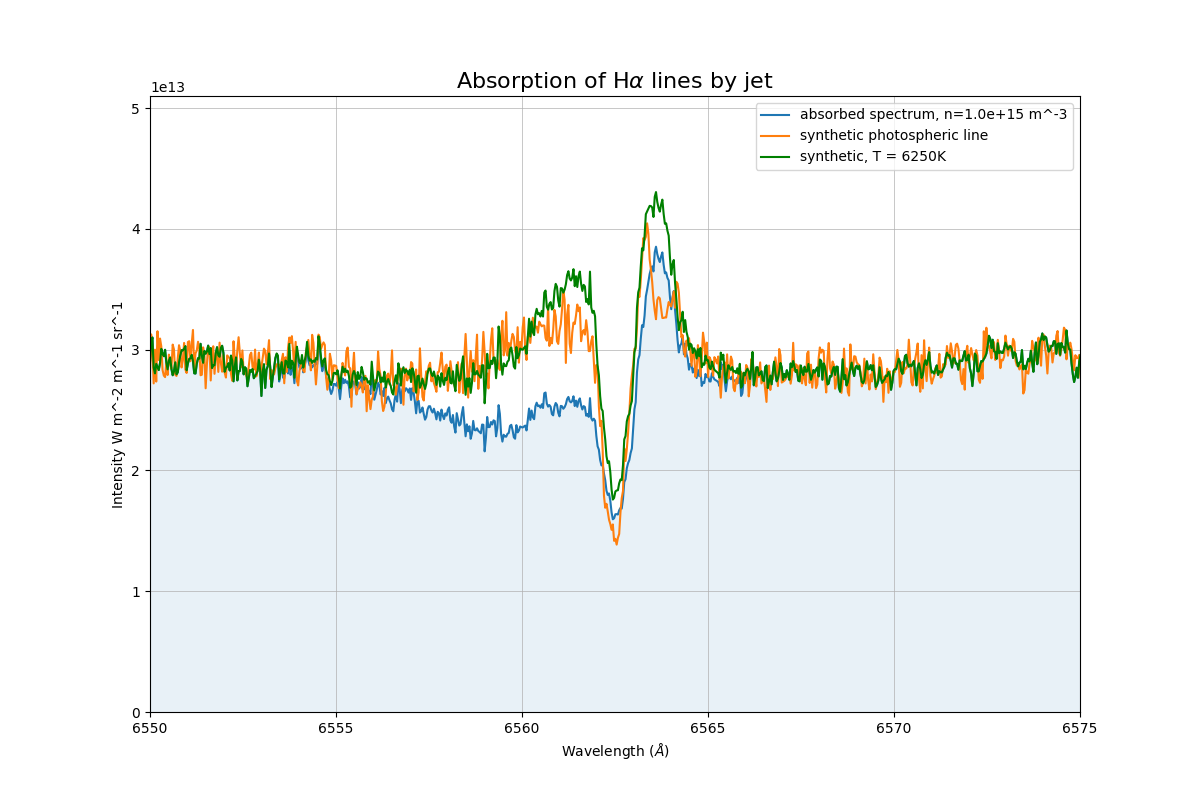
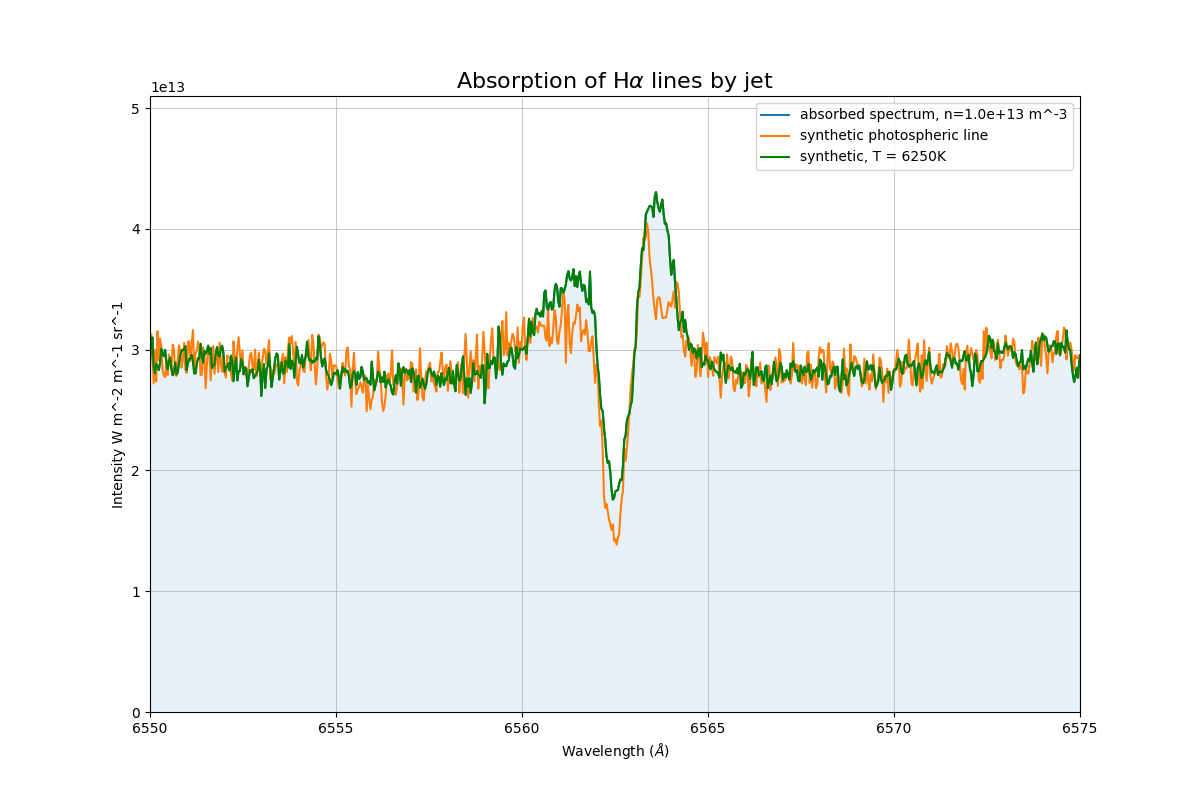
bug in linewidth found

diff --git a/tests/main.py b/tests/main.py
@@ -243,7 +243,7 @@ jet = Cone.Stellar_jet_simple(inclination, jet_angle,
                               jet_type,
                               jet_centre=secondary_orbit[phase_test]['position'])
 jet_temperature         = 5000      # The jet temperature (K)
-jet_density_max         = 1e15      # The jet number density at its outer edge (m^-3)
+jet_density_max         = 1e13      # The jet number density at its outer edge (m^-3)
 
 """
 =======================================================================
@@ -288,7 +288,7 @@ for phase in phases:
                 jet_radvel_m_per_s      = jet_radvel_km_per_s * 1000 # Radial velocity of each gridpoint (m/s)
                 jet_delta_gridpoints_AU = np.linalg.norm(jet.gridpoints[0,:] - jet.gridpoints[1,:]) # The length of each gridpoint (AU)
                 jet_delta_gridpoints_m  = jet_delta_gridpoints_AU * AU  # The length of each gridpoint (m)
-
+                jet_radvel_gradient     = jet.radial_velocity_gradient(jet_radvel_m_per_s, jet_delta_gridpoints_m) # Radial velocity gradient of each gridpoint (s^-1)
                 """
                 Synthetic line profile and EW for a specific object given a temperature and density
                 """
@@ -308,22 +308,30 @@ for phase in phases:
                 plt.plot(jet.gridpoints[:,1], jet_n_HI_2/np.max(jet_n_HI_2), label='density HI_2')
                 plt.plot(jet.gridpoints[:,1], jet_radvel_km_per_s/np.max(jet_radvel_km_per_s), label='radial velocity')
                 plt.plot(jet.gridpoints[:,1], jet.gridpoints[:,2], label='height in jet')
+                plt.plot(jet.gridpoints[:,1], jet_radvel_gradient/np.max(jet_radvel_gradient), label='gradient radial velocity')
                 plt.legend()
                 plt.show()
                 intensity_point = []
                 for wavebin, wave in enumerate(spectra_wavelengths):
-                    intensity_point.append(spectra_background_I[phase][spectrum][wavebin])
+                    # intensity_point.append(spectra_background_I[phase][spectrum][wavebin])
+                    intensity_point.append(0)
                     if wave > 6540e-10 and wave < 6580e-10:
                         frequency       = constants.c / wave
                         delta_tau       = jet_delta_gridpoints_m \
                                           * opacity(frequency, jet_temperature, jet_n_HI[1:], jet_n_e[1:],
                                                     jet_n_HI_2[1:], B_lu[0],
                                                     jet_radvel_m_per_s[1:], line=line)
+                        # delta_tau       = jet_delta_gridpoints_m \
+                        #                   * opacity(frequency, jet_temperature, jet_n_HI[1:], jet_n_e[1:],
+                        #                             jet_n_HI_2[1:], B_lu[0],
+                        #                             jet_radvel_m_per_s[1:], line=line)
 
                         for pointLOS in range(gridpoints_LOS-1):
                             intensity_point[wavebin] = rt_isothermal(wave, jet_temperature, intensity_point[wavebin], delta_tau[pointLOS])
 
             intensity += gridpoints_primary**-1 * np.array(intensity_point)
+            plt.plot(spectra_wavelengths, intensity_point)
+            plt.show()
 
 
         ax.plot(spectra_wavelengths*1e10, np.array(intensity), label="absorbed spectrum, n=%.1e m^-3"%(jet_density_max))

diff --git a/jet_accretion/radiative_transfer.py b/jet_accretion/radiative_transfer.py
@@ -168,6 +168,48 @@ def voigt(u, a):
 
     return result.real
 
+def opacity_sobolev(nu, T, n_HI, n_e, n_l, Blu, rv, line='halpha'):
+    """
+    Calculate the absorption coefficient alpha
+
+    Parameters
+    ==========
+    nu : float
+        The wavelength in units of Hz
+    T : float
+        Temperature in units of Kelvin
+    n_HI : float
+        The number density of HI in units of m^-3
+    n_e : float
+        The electron number density in units of m^-3
+    n_l : float
+        The number density of the lower energy level in units of m^-3
+    Blu : float
+        The einstein coefficient for excitation
+    rv : float
+        Radial velocity of the gridpoint in m^1 s^-1
+
+    returns
+    =======
+    abs_coeff_si : float
+        The absorption coefficient in units of m^-1
+    """
+    n_l_cgs = n_l * 1e-6
+    balmer_properties = {'wavelength': {'halpha': 6562.8e-10, 'hbeta': 4861.35e-10, 'hgamma': 4340.47e-10, 'hdelta': 4101.73e-10},
+                         'f_osc': {'halpha': 6.407e-1, 'hbeta': 1.1938e-1, 'hgamma': 4.4694e-2, 'hdelta': 2.2105e-2},
+                         'Aul' : {'halpha': 4.4101e7, 'hbeta': 8.4193e6, 'hgamma' : 2.530e6, 'hdelta': 9.732e5}}
+    nu_0              = constants.c / balmer_properties['wavelength'][line]
+    f_line            = balmer_properties['f_osc'][line]
+
+    u, a, delta_nu = u_a(nu, nu_0, n_HI, n_e, T, rv, line=line)
+    phi_nu = voigt(u, a) / ( np.pi**.5 * delta_nu )
+    C = ( consts.h.cgs.value * Blu / (4. * np.pi) )
+    C_osc = ( np.pi * consts.e.esu.value**2 / (consts.m_e.cgs.value * consts.c.cgs.value ) )
+
+    abs_coeff_cgs = C_osc * f_line * phi_nu * n_l_cgs * ( 1 - np.exp(-constants.h * nu_0 / (constants.k * T )))
+    abs_coeff_si = abs_coeff_cgs * 1e2
+
+    return abs_coeff_si
 
 def opacity(nu, T, n_HI, n_e, n_l, Blu, rv, line='halpha'):
     """
